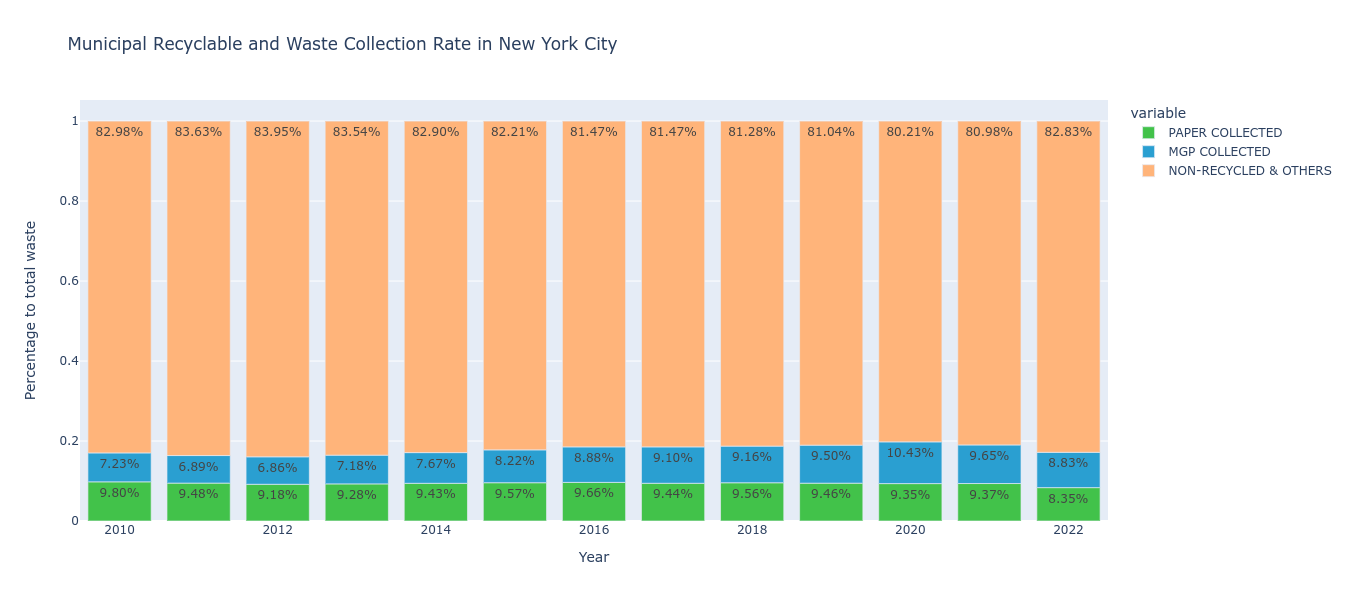
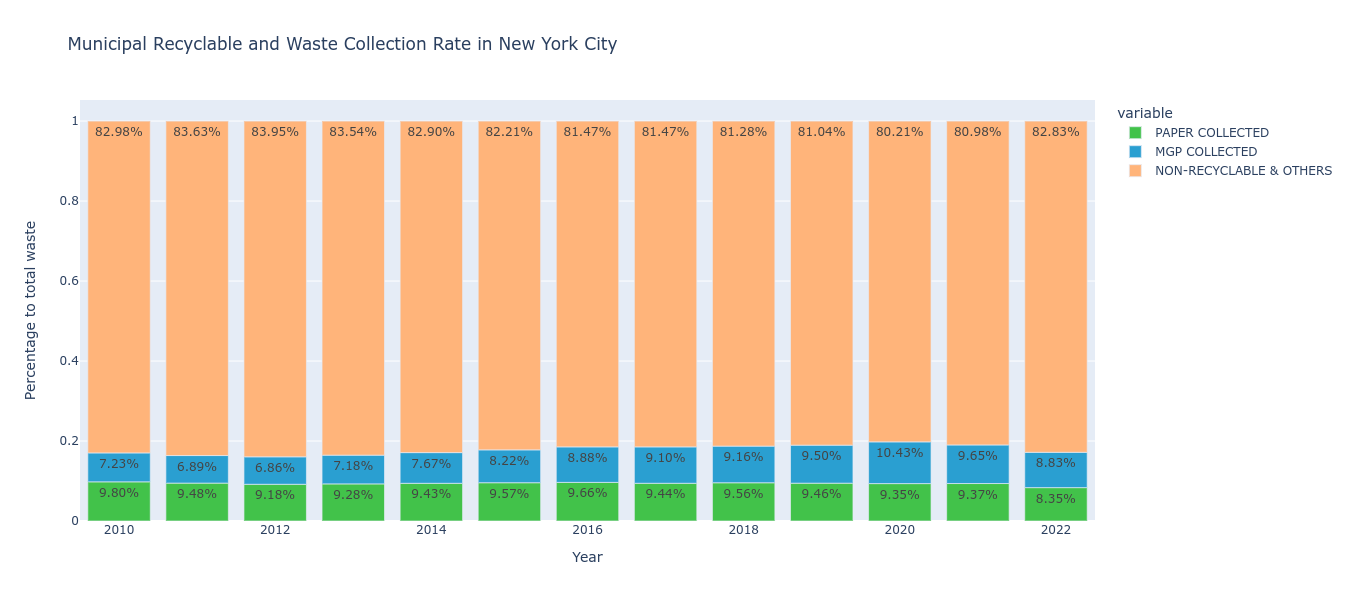
Add files via upload
Fixed typos in legends.

diff --git a/recycle_stat.py b/recycle_stat.py
@@ -88,7 +88,7 @@ USmswTotal.rename(columns={
     "Products - Glass": "GLASS COLLECTED",
     "Products - Metals - Total": "METALS COLLECTED",
     "Products - Plastics": "PLASTICS COLLECTED",
-    "Non-Recyclable & Others": "NON-RECYCLED & OTHERS"
+    "Non-Recyclable & Others": "NON-RECYCLABLE & OTHERS"
 }, inplace=True)
 
 # Swap plastic and paper columns
@@ -143,7 +143,7 @@ NYCp_cols.remove("YEAR")
 NYCmswTotal["MSW TOTAL"] = NYCmswTotal[NYCp_cols].sum(axis=1)
 NYCmswTotal["PAPER COLLECTED"] = NYCmswTotal["PAPERTONSCOLLECTED"] / NYCmswTotal["MSW TOTAL"] * 100
 NYCmswTotal["MGP COLLECTED"] = NYCmswTotal["MGPTONSCOLLECTED"] / NYCmswTotal["MSW TOTAL"] * 100
-NYCmswTotal["NON-RECYCLED & OTHERS"] = 100 - NYCmswTotal["PAPER COLLECTED"] - NYCmswTotal["MGP COLLECTED"]
+NYCmswTotal["NON-RECYCLABLE & OTHERS"] = 100 - NYCmswTotal["PAPER COLLECTED"] - NYCmswTotal["MGP COLLECTED"]
 
 # =================================================================================
 # Combine two stacked bar charts together by using subgroups.
@@ -157,10 +157,10 @@ USNY = pd.DataFrame(
         USplastic = USmswTotal["PLASTICS COLLECTED"].tolist(),
         USmetal = USmswTotal["METALS COLLECTED"].tolist(),
         USglass = USmswTotal["GLASS COLLECTED"].tolist(),
-        USnon_recycle = USmswTotal["NON-RECYCLED & OTHERS"].tolist(),
+        USnon_recycle = USmswTotal["NON-RECYCLABLE & OTHERS"].tolist(),
         NYCpaper = NYCmswTotal["PAPER COLLECTED"][0:9].tolist(),
         NYCmsw = NYCmswTotal["MGP COLLECTED"][0:9].tolist(),
-        NYCnon_recycle = NYCmswTotal["NON-RECYCLED & OTHERS"][0:9].tolist(),
+        NYCnon_recycle = NYCmswTotal["NON-RECYCLABLE & OTHERS"][0:9].tolist(),
     )
 )
 
@@ -175,7 +175,7 @@ fig.update_layout(
 
 # Sequence is important
 groups = ["USpaper", "USplastic", "USmetal", "USglass", "USnon_recycle", "NYCpaper", "NYCmsw", "NYCnon_recycle"]
-names = ["US Paper", "US Plastic", "US Metal", "US Glass", "US Non-Recycle", "NYC Paper", "NYC Plastic", "NYC Non-Recycle"]
+names = ["US PAPER", "US PLASTIC", "US METAL", "US GLASS", "US NON-RECYCLABLE", "NYC PAPER", "NYC PLASTIC", "NYC NON-RECYCLABLE"]
 colors = {"USpaper" : "#7AC142",
           "USplastic" : "#0093D0",
           "USglass" : "#46A7D1",

diff --git a/recycle_stat_NY.py b/recycle_stat_NY.py
@@ -44,7 +44,7 @@ NYCp_cols.remove("YEAR")
 NYCmswTotal["MSW TOTAL"] = NYCmswTotal[NYCp_cols].sum(axis=1)
 NYCmswTotal["PAPER COLLECTED"] = NYCmswTotal["PAPERTONSCOLLECTED"] / NYCmswTotal["MSW TOTAL"]
 NYCmswTotal["MGP COLLECTED"] = NYCmswTotal["MGPTONSCOLLECTED"] / NYCmswTotal["MSW TOTAL"]
-NYCmswTotal["NON-RECYCLED & OTHERS"] = 1 - NYCmswTotal["PAPER COLLECTED"] - NYCmswTotal["MGP COLLECTED"]
+NYCmswTotal["NON-RECYCLABLE & OTHERS"] = 1 - NYCmswTotal["PAPER COLLECTED"] - NYCmswTotal["MGP COLLECTED"]
 
 #print(NYCmswTotal)
 #print(NYCp_cols)
@@ -54,7 +54,7 @@ NYCmswTotal["NON-RECYCLED & OTHERS"] = 1 - NYCmswTotal["PAPER COLLECTED"] - NYCm
 
 fig = px.bar(NYCmswTotal, 
         x = "YEAR", 
-        y = ["PAPER COLLECTED", "MGP COLLECTED", "NON-RECYCLED & OTHERS"], 
+        y = ["PAPER COLLECTED", "MGP COLLECTED", "NON-RECYCLABLE & OTHERS"], 
         color_discrete_sequence = ["#42C24A", "#2A9FD1", "#FFB47A"],
         title = "Municipal Recyclable and Waste Collection Rate in New York City",
         labels = {"value" : "Percentage to total waste", "YEAR" : "Year"}, 

diff --git a/recycle_stat_US.py b/recycle_stat_US.py
@@ -86,7 +86,7 @@ USmswTotal.rename(columns={
     "Products - Glass" : "GLASS COLLECTED",
     "Products - Metals - Total": "METALS COLLECTED",
     "Products - Plastics" : "PLASTICS COLLECTED",
-    "Non-Recyclable & Others" : "NON-RECYCLED & OTHERS"
+    "Non-Recyclable & Others" : "NON-RECYCLABLE & OTHERS"
     }, inplace=True)
 
 # Swap plastic and paper columns
@@ -109,7 +109,7 @@ USbarcolor = {"PAPER COLLECTED" : "#7AC142",
               "PLASTICS COLLECTED" : "#0093D0",
               "GLASS COLLECTED" : "#46A7D1",
               "METAL COLLECTED" : "#8BBCD1",
-              "NON-RECYCLED & OTHERS" : "#FFA15A"}
+              "NON-RECYCLABLE & OTHERS" : "#FFA15A"}
 
 fig = px.bar(USmswTotal, 
         x="YEAR", 
